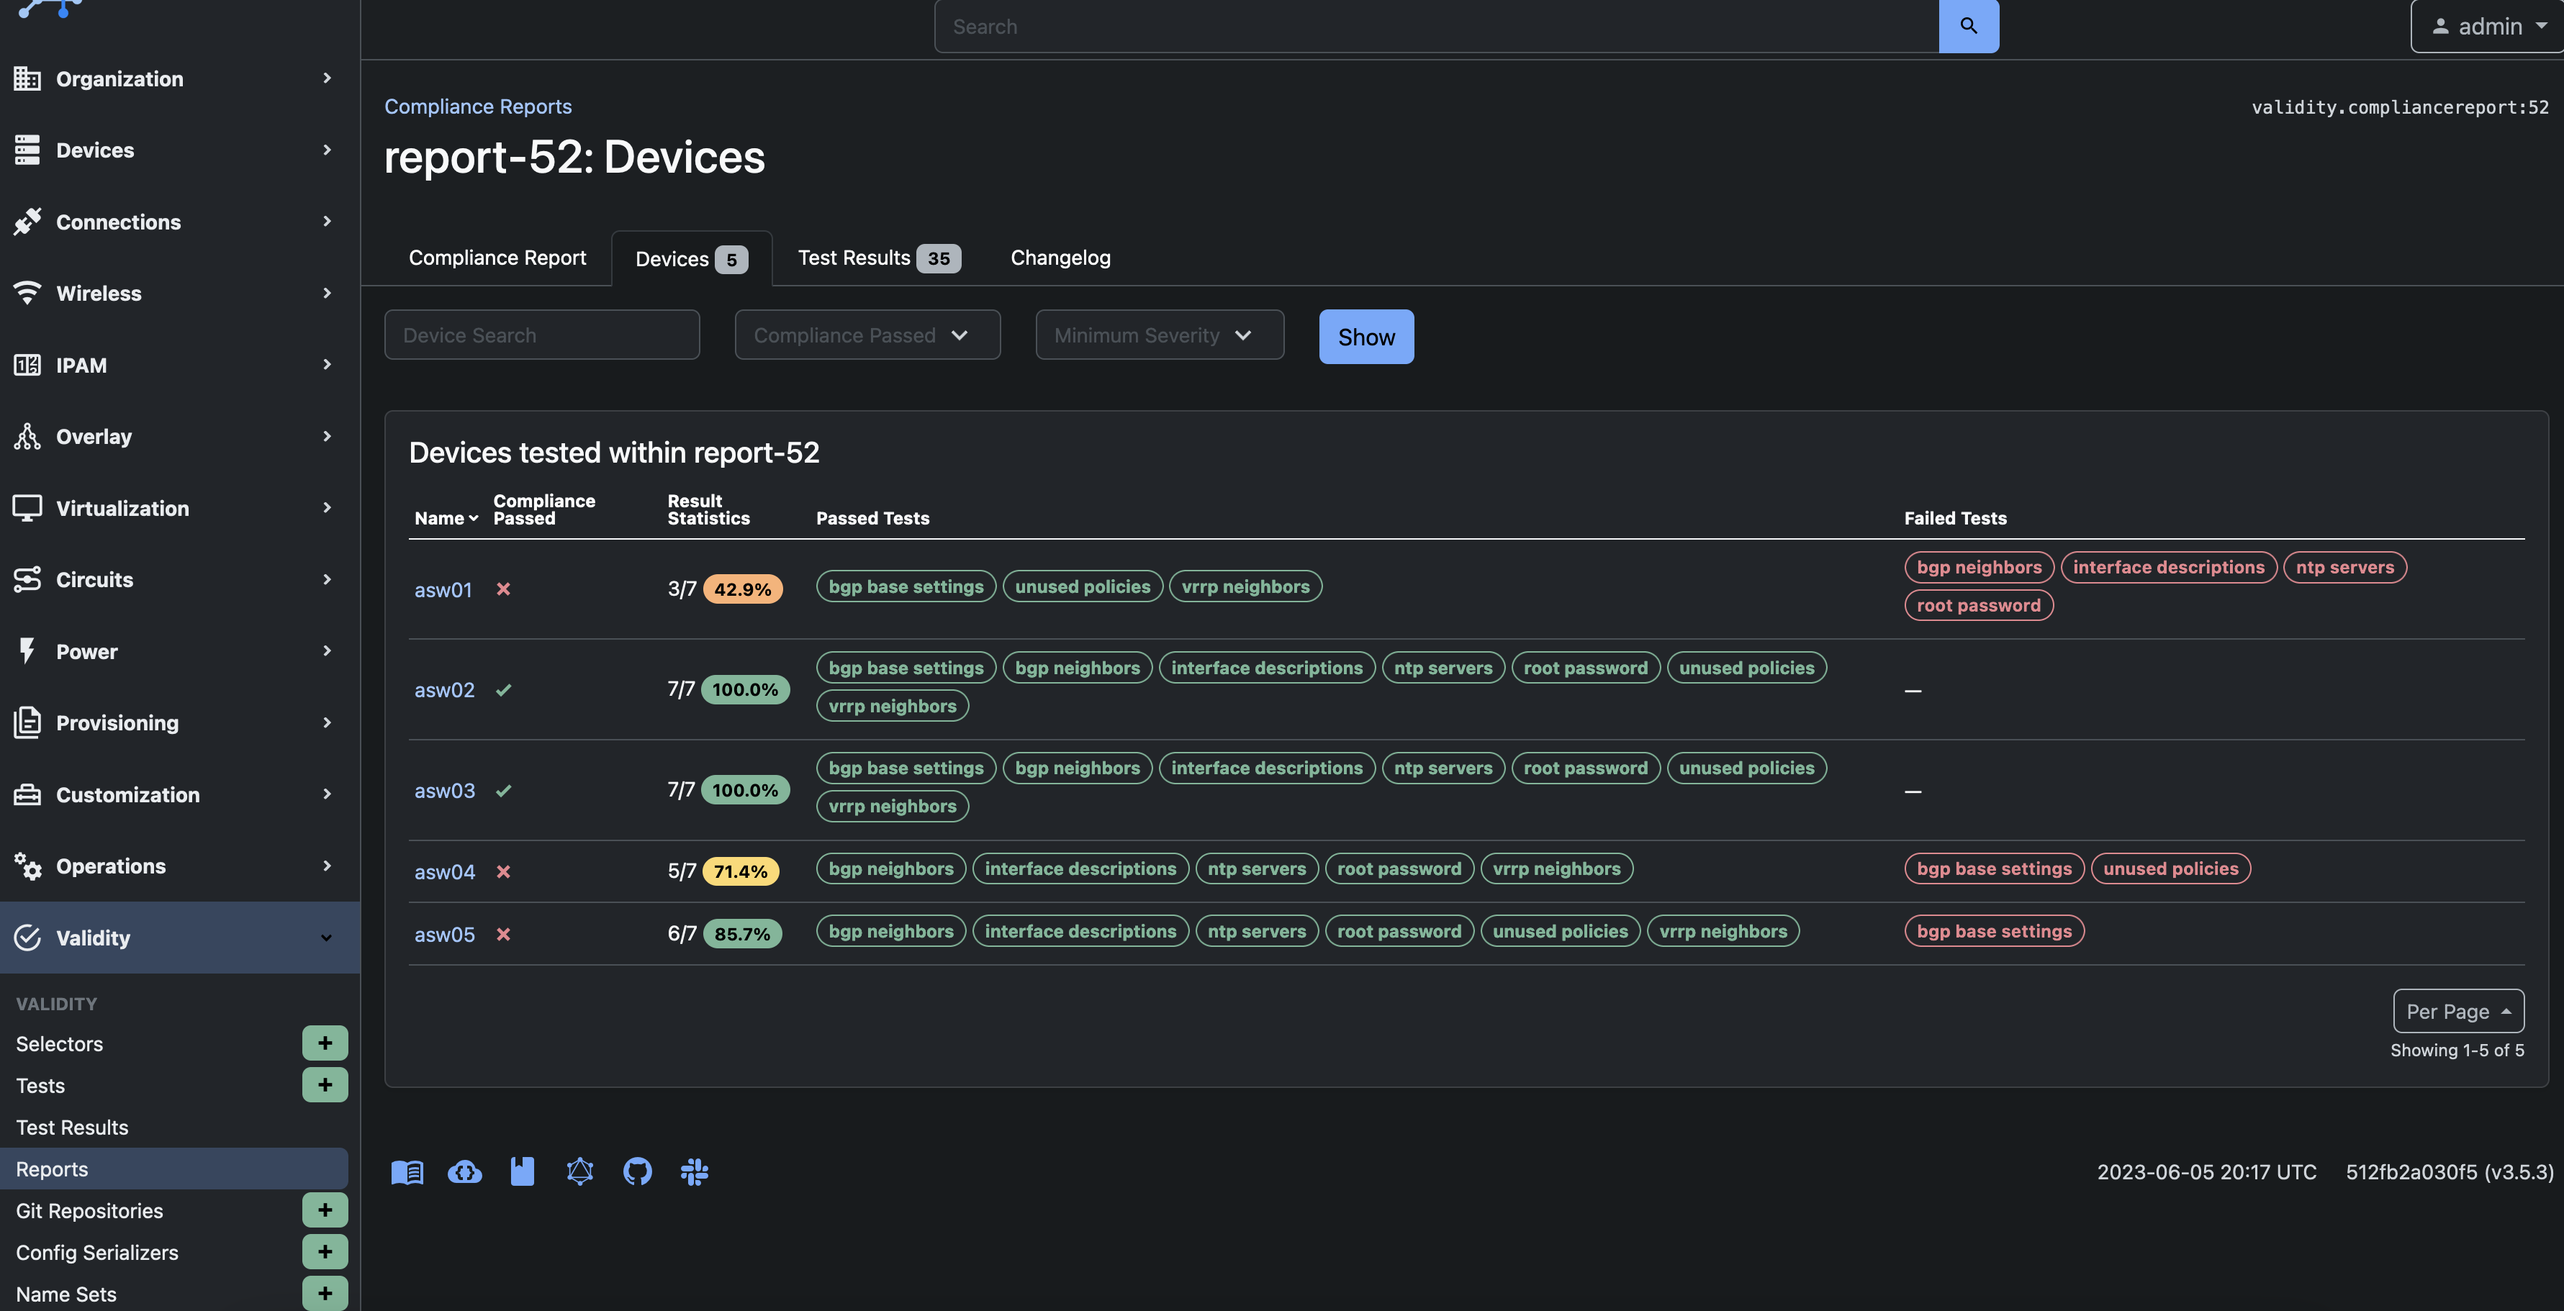
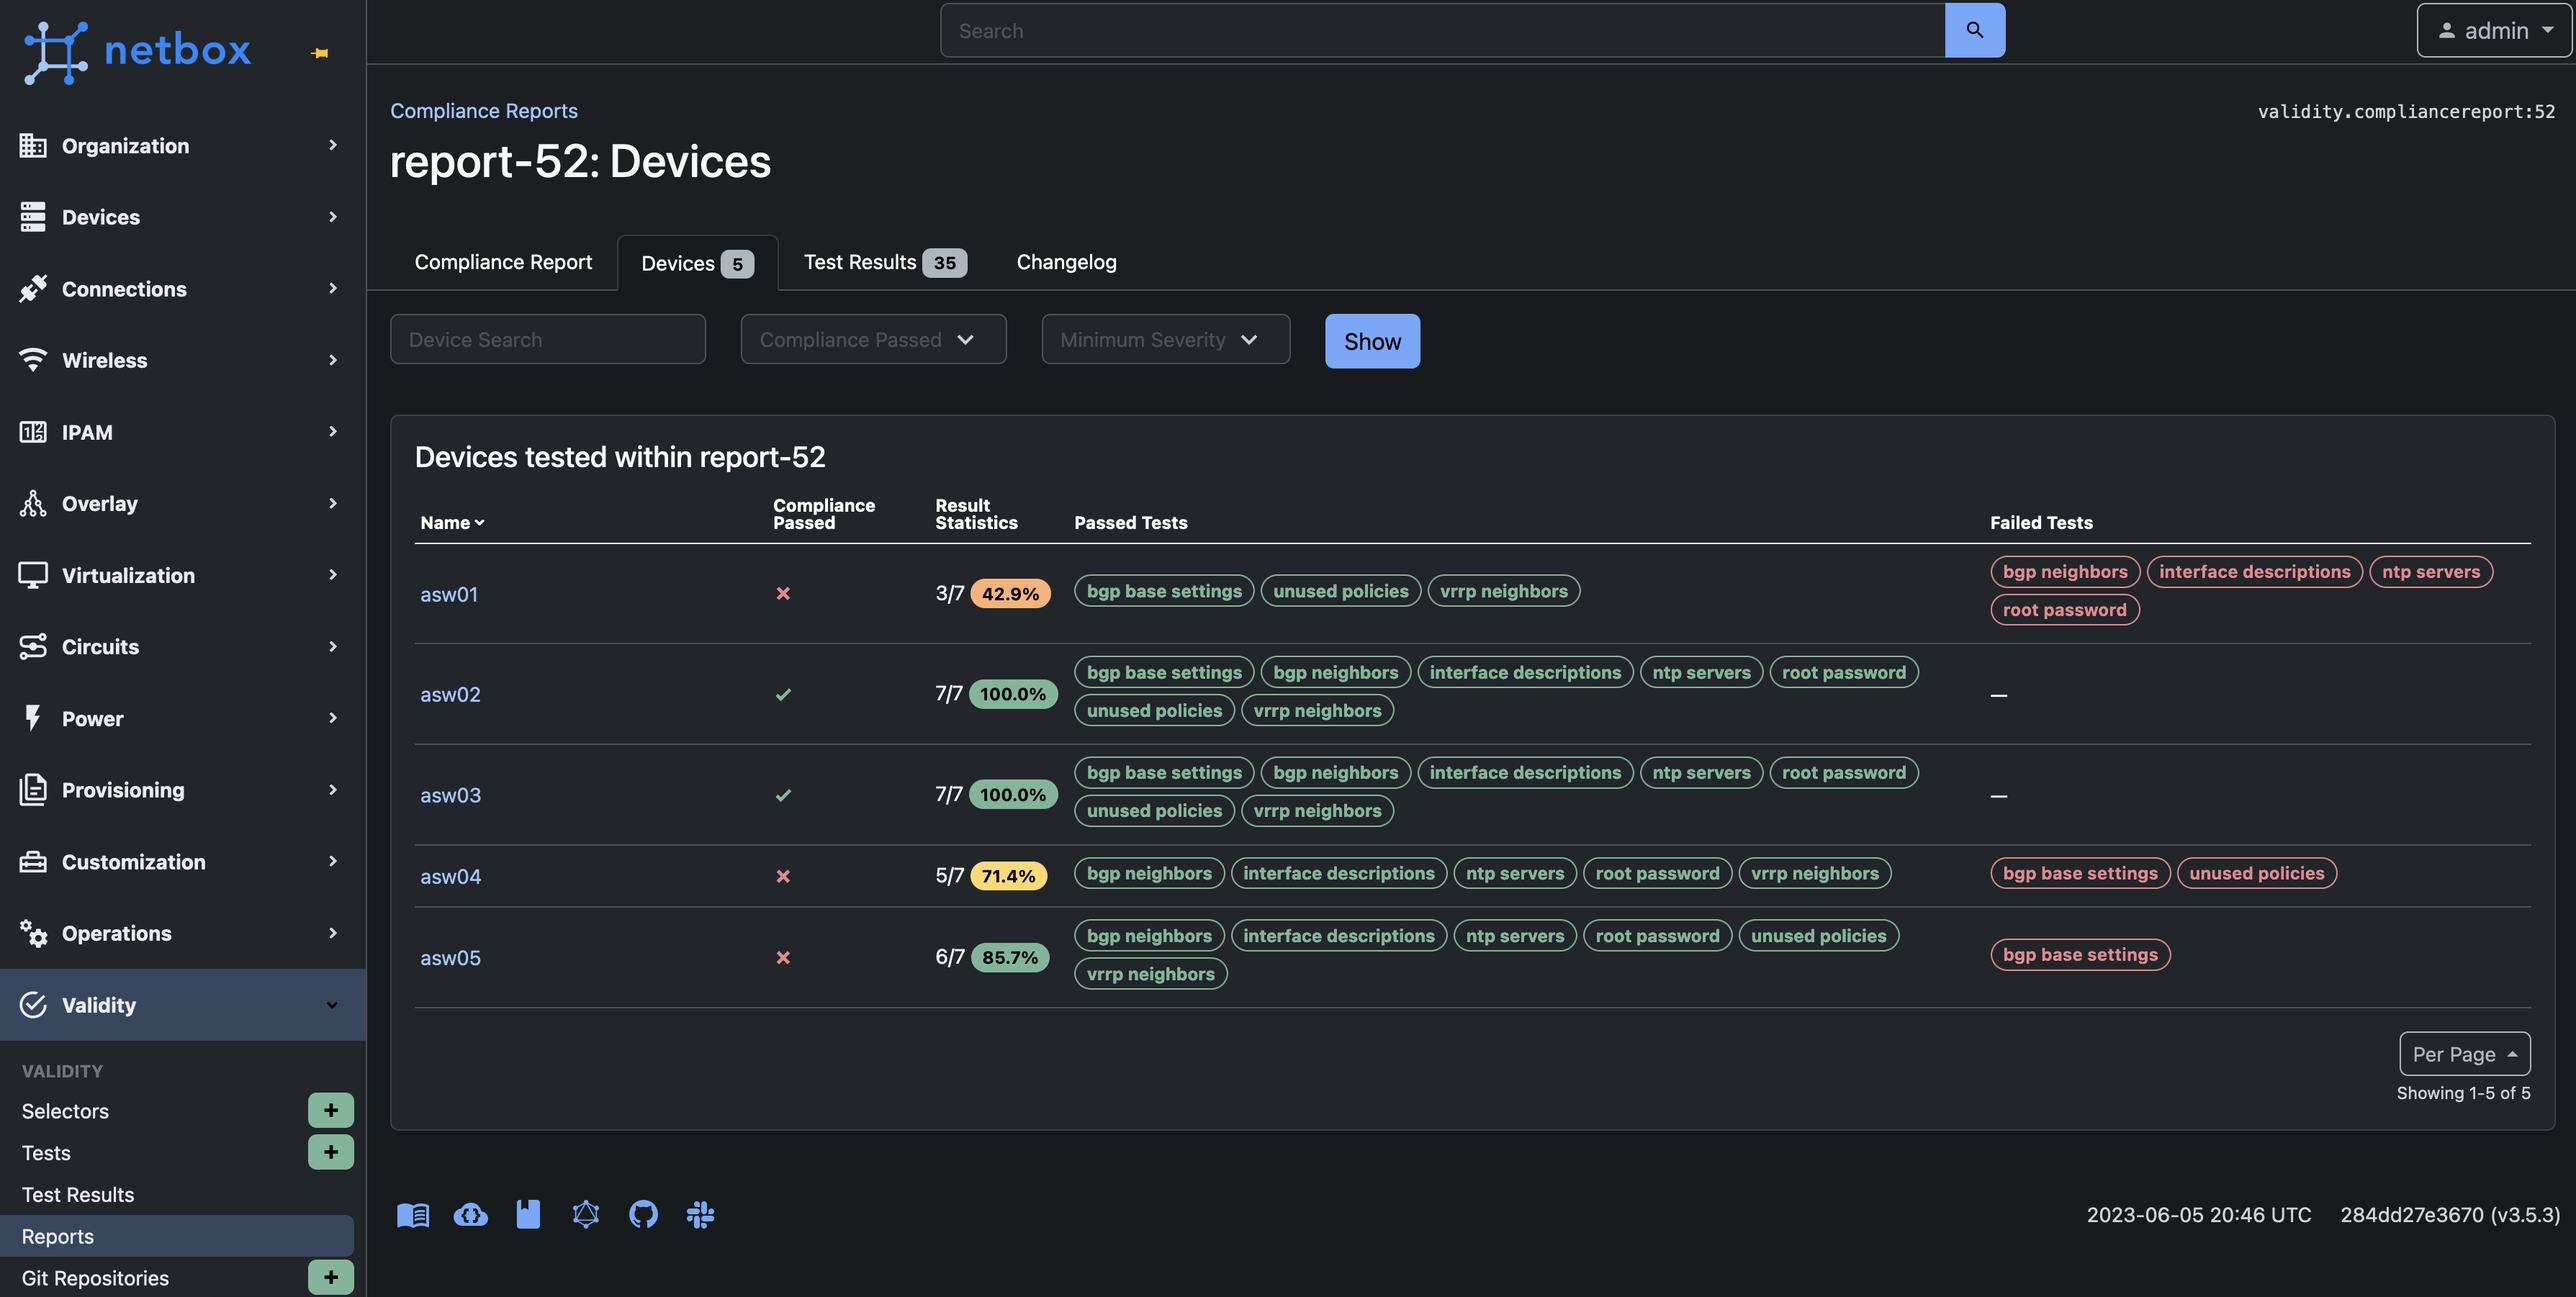
fix device report table columns spacing

diff --git a/validity/tables.py b/validity/tables.py
@@ -206,7 +206,7 @@ class DeviceReportM2MColumn(ManyToManyColumn):
 
 
 class ComplianceReportDeviceTable(NetBoxTable):
-    device = TemplateColumn(order_by=("_name",), template_code=DEVICE_LINK, linkify=True, accessor="name")
+    device = TemplateColumn(order_by=("_name",), template_code=DEVICE_LINK, linkify=True, accessor="name", attrs={"th": {'class': 'col-2'}})
     compliance_passed = BooleanColumn(
         verbose_name=_("Compliance Passed"),
         empty_values=(),
